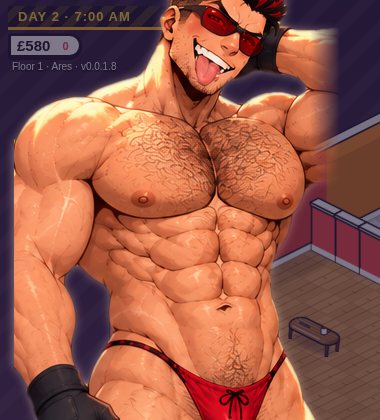
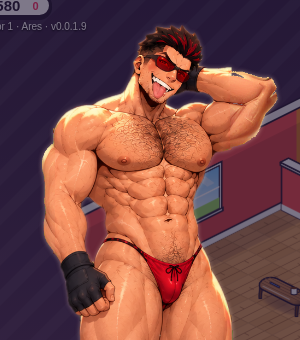
v0.0.1.9: Ares whole-body dialogue art (outpainted limbs), standing over current scene

diff --git a/game.js b/game.js
@@ -1,7 +1,7 @@
 'use strict';
 const DPR=Math.min(2,window.devicePixelRatio||1);let ctx=null;const PB=document.createElement('canvas'),PBC=PB.getContext('2d');let PX=1;
 // Fantasy Town v0.0.0.8 — small-town condo life sim (family-friendly)
-const VERSION='v0.0.1.8',SAVE='fantasytown_save_v10';
+const VERSION='v0.0.1.9',SAVE='fantasytown_save_v10';
 const cv=document.getElementById('c'),mainCtx=cv.getContext('2d'),menuEl=document.getElementById('menu');
 const Q=new URLSearchParams(location.search),$=id=>document.getElementById(id);
 const G=0,ROAD=1,WATER=2,CONC=5,PATH=14,DARKG=15,FL1=20,FL2=21,FL3=22;
@@ -42,7 +42,7 @@ const CHARS={
  'Mayor Lumen':{look:{body:'#c09a2a',hair:'#f4f4f4',style:'short'},
   talks:[[L('Welcome to Lumen Town, manager! Small, but full of heart.','happy'),L('Happy tenants make a happy town. Post an ad at your front desk!')],[L('Tenants love rooms with their favourite things.','smile'),L('Check what they like before you decorate!','happy')]]},
 };
-// ===== v0.0.1.8 ARES — first custom tenant (original writing; cheeky, warm, family-friendly) =====
+// ===== v0.0.1.9 ARES — first custom tenant (original writing; cheeky, warm, family-friendly) =====
 CHARS.Ares={look:{ares:1,body:'#d9a07a',hair:'#14101a'},pers:'Confident · Loud · Big-brother',likes:['neon','modern'],fav:'dumbbells',loves:['dumbbells','weightbench','gymball','poster_gym'],job:'club',night:1,hang:['gym','plaza','park'],
  wage:13.5,shiftH:6,nights:5,offer:[25,28],
  talks:[[L('Yo! You run this place? Name\'s Ares. Night-club security. Don\'t worry, I only LOOK scary.','smile'),L('Door\'s my job, boss. Nobody gets past me without a smile.','teasing')]],
@@ -351,9 +351,9 @@ function drawApps(t){ctx.setTransform(1,0,0,1,0,0);const W=cv.width,H=cv.height;
 // ---------- dialogue ----------
 const dlg={on:false,lines:[],i:0,ch:0,name:'',hidden:false};
 function startDialogue(name,lines){Object.assign(dlg,{on:true,lines,i:0,ch:0,name,hidden:false});$('dlg').style.display='block';$('dlgName').textContent=name.toUpperCase();showLine();for(const k in keys)keys[k]=0;}
-function showLine(){const l=dlg.lines[dlg.i];const pc=$('dlgPortrait'),g=pc.getContext('2d');g.clearRect(0,0,pc.width,pc.height);const AA=dlg.name=='Ares'&&typeof aresDialogueArt=='function'&&aresDialogueArt(),fc=$('dlgFace');if(AA){const dpr=window.devicePixelRatio||1;if(pc.width!=AA.width){pc.width=AA.width;pc.height=AA.height;}g.clearRect(0,0,pc.width,pc.height);g.drawImage(AA,0,0);pc.style.height=Math.min(AA.height/dpr,innerHeight*1.12)+'px';pc.style.filter='none';pc.style.left='0';pc.style.transform='none';
+function showLine(){const l=dlg.lines[dlg.i];const pc=$('dlgPortrait'),g=pc.getContext('2d');g.clearRect(0,0,pc.width,pc.height);const AA=dlg.name=='Ares'&&typeof aresDialogueArt=='function'&&aresDialogueArt(),fc=$('dlgFace');if(AA){const dpr=window.devicePixelRatio||1;if(pc.width!=AA.width){pc.width=AA.width;pc.height=AA.height;}g.clearRect(0,0,pc.width,pc.height);g.drawImage(AA,0,0);pc.style.height=Math.min(AA.height/dpr,innerHeight*.9)+'px';pc.style.filter='none';pc.style.left=Math.round(innerWidth*.03)+'px';pc.style.transform='none';pc.style.bottom=Math.round(innerHeight*.02)+'px';
  const F=aresFace(l.e);if(F){fc.width=F.naturalWidth;fc.height=F.naturalHeight;const fg=fc.getContext('2d');fg.clearRect(0,0,fc.width,fc.height);fg.drawImage(F,0,0);fc.style.width=Math.min(F.naturalWidth/dpr,84)+'px';fc.style.display='block';}else fc.style.display='none';}
- else{if(pc.width!=420){pc.width=420;pc.height=520;}pc.style.height='';pc.style.filter='';pc.style.left='';pc.style.transform='';fc.style.display='none';g.drawImage(portrait(dlg.name,l.e),0,0,pc.width,pc.height);}dlg.ch=0;$('dlgText').textContent='';$('dlgBox').style.visibility='visible';dlg.hidden=false;}
+ else{if(pc.width!=420){pc.width=420;pc.height=520;}pc.style.height='';pc.style.filter='';pc.style.left='';pc.style.transform='';pc.style.bottom='';fc.style.display='none';g.drawImage(portrait(dlg.name,l.e),0,0,pc.width,pc.height);}dlg.ch=0;$('dlgText').textContent='';$('dlgBox').style.visibility='visible';dlg.hidden=false;}
 function dlgNext(){const l=dlg.lines[dlg.i];if(dlg.ch<l.t.length){dlg.ch=l.t.length;$('dlgText').textContent=l.t;return;}dlg.i++;if(dlg.i>=dlg.lines.length)dlgClose();else showLine();}
 function dlgClose(){dlg.on=false;$('dlg').style.display='none';}
 $('dlgNext').onclick=e=>{e.stopPropagation();dlgNext();};$('dlgSkip').onclick=e=>{e.stopPropagation();dlgClose();};$('dlgHide').onclick=e=>{e.stopPropagation();dlg.hidden=true;$('dlgBox').style.visibility='hidden';};

diff --git a/ares.js b/ares.js
@@ -13,16 +13,12 @@ const aresReady=n=>{const i=ARES_IMG[n];return i&&i.complete&&i.naturalWidth>0;}
 // Dialogue art: the CG shown at native resolution in a clean frame, keeping its own painted background;
 // only the frame's alpha is feathered (sides) and faded (bottom, behind the text box) so no crop edge shows.
 let _adc=null;
-{const im=new Image();im.src='assets/ares/cg_cut.png';ARES_IMG.cg_cut=im;}
-// Big model over the live (dimmed) scene: the CG figure cut from its garden (alpha only), a soft warm rim glow,
-// shown 1:1 anchored to the bottom-left screen corner (his left-arm crop lies on the screen edge, the right elbow crop is feathered), and the legs fading out behind the text box.
-function aresDialogueArt(){if(_adc)return _adc;if(!aresReady('cg_cut'))return null;const b=ARES_IMG.cg_cut,P=14,W=b.naturalWidth+P*2,H=b.naturalHeight+P;
+{const im=new Image();im.src='assets/ares/cg_full.png';ARES_IMG.cg_full=im;}
+// Big model, whole from head to toe (assets/ares/cg_full.png: the sheet's CG with the limbs the panel cut off completed
+// offline), standing over the live, dimmed location. Soft warm rim glow only; no fades, no crop.
+function aresDialogueArt(){if(_adc)return _adc;if(!aresReady('cg_full'))return null;const b=ARES_IMG.cg_full,P=12,W=b.naturalWidth+P*2,H=b.naturalHeight+P*2;
  const c=document.createElement('canvas');c.width=W;c.height=H;const g=c.getContext('2d');
- g.save();g.shadowColor='rgba(255,214,190,.55)';g.shadowBlur=10;g.drawImage(b,P,P);g.restore();g.drawImage(b,P,P);
- g.globalCompositeOperation='destination-out';
- [[W-P,W-P-30]].forEach(([a0,a1])=>{const lg=g.createLinearGradient(a0,0,a1,0);lg.addColorStop(0,'rgba(0,0,0,1)');lg.addColorStop(1,'rgba(0,0,0,0)');g.fillStyle=lg;g.fillRect(Math.min(a0,a1)-(a0<a1?P:0),0,30+P,H);});
- const bg=g.createLinearGradient(0,H*.62,0,H*.97);bg.addColorStop(0,'rgba(0,0,0,0)');bg.addColorStop(1,'rgba(0,0,0,1)');g.fillStyle=bg;g.fillRect(0,H*.62,W,H*.38);
- return _adc=c;}
+ g.save();g.shadowColor='rgba(255,214,190,.5)';g.shadowBlur=9;g.drawImage(b,P,P);g.restore();g.drawImage(b,P,P);return _adc=c;}
 // small face badge = the sheet's close-up for the line's emotion (shown at <= native size, anchored to the text box)
 function aresFace(expr){expr={happy:'smile',laugh:'smile',smirk:'teasing',embarrassed:'blush',blushing:'blush',thinking:'serious'}[expr]||expr;if(!ARES_EXPR.includes(expr))expr='smile';const n='expr_'+(expr=='blush'?'blushing':expr);return aresReady(n)?ARES_IMG[n]:null;}
 // small uses (applicant card, tenant list): the CG's upper body at native pixels, 420:520 aspect

diff --git a/index.html b/index.html
@@ -2,7 +2,7 @@
 <html lang="en"><head><meta charset="utf-8">
 <meta name="viewport" content="width=device-width,initial-scale=1,maximum-scale=1,user-scalable=no,viewport-fit=cover">
 <meta name="mobile-web-app-capable" content="yes"><meta name="apple-mobile-web-app-capable" content="yes"><meta name="theme-color" content="#2a2238">
-<title>Fantasy Town v0.0.1.8</title>
+<title>Fantasy Town v0.0.1.9</title>
 <style>
 *{box-sizing:border-box}
 html,body{margin:0;height:100%;background:#2a2238;overflow:hidden;touch-action:none;font-family:"Trebuchet MS",Verdana,sans-serif;color:#2a2238;-webkit-user-select:none;user-select:none}

diff --git a/assets/ares/upscale_poses.py b/assets/ares/upscale_poses.py
@@ -1,0 +1,42 @@
+# Upscale the full-body pose slices offline with Real-ESRGAN x4plus_anime_6B (CPU), then downsample with Lanczos
+# to the dialogue height. RGB comes from the sheet panel (no recolor/filter); alpha = the slice's key, Lanczos-upscaled,
+# with edge pixels decontaminated against the panel background. Run with /tmp/ares7/rbg/bin/python (torch).
+import torch,torch.nn as nn,torch.nn.functional as F,numpy as np,json
+from PIL import Image
+class RDB(nn.Module):
+    def __init__(s,f=64,g=32):
+        super().__init__();s.conv1=nn.Conv2d(f,g,3,1,1);s.conv2=nn.Conv2d(f+g,g,3,1,1);s.conv3=nn.Conv2d(f+2*g,g,3,1,1);s.conv4=nn.Conv2d(f+3*g,g,3,1,1);s.conv5=nn.Conv2d(f+4*g,f,3,1,1);s.l=nn.LeakyReLU(.2,True)
+    def forward(s,x):
+        x1=s.l(s.conv1(x));x2=s.l(s.conv2(torch.cat((x,x1),1)));x3=s.l(s.conv3(torch.cat((x,x1,x2),1)));x4=s.l(s.conv4(torch.cat((x,x1,x2,x3),1)));return s.conv5(torch.cat((x,x1,x2,x3,x4),1))*.2+x
+class RRDB(nn.Module):
+    def __init__(s,f=64):super().__init__();s.rdb1=RDB(f);s.rdb2=RDB(f);s.rdb3=RDB(f)
+    def forward(s,x):return s.rdb3(s.rdb2(s.rdb1(x)))*.2+x
+class Net(nn.Module):
+    def __init__(s,nb=6,f=64):
+        super().__init__();s.conv_first=nn.Conv2d(3,f,3,1,1);s.body=nn.Sequential(*[RRDB(f) for _ in range(nb)]);s.conv_body=nn.Conv2d(f,f,3,1,1)
+        s.conv_up1=nn.Conv2d(f,f,3,1,1);s.conv_up2=nn.Conv2d(f,f,3,1,1);s.conv_hr=nn.Conv2d(f,f,3,1,1);s.conv_last=nn.Conv2d(f,3,3,1,1);s.l=nn.LeakyReLU(.2,True)
+    def forward(s,x):
+        fe=s.conv_first(x);fe=fe+s.conv_body(s.body(fe));fe=s.l(s.conv_up1(F.interpolate(fe,scale_factor=2,mode='nearest')));fe=s.l(s.conv_up2(F.interpolate(fe,scale_factor=2,mode='nearest')))
+        return s.conv_last(s.l(s.conv_hr(fe)))
+net=Net();sd=torch.load('/tmp/ares7/anime6B.pth',map_location='cpu');net.load_state_dict(sd.get('params_ema',sd));net.eval()
+SH=Image.open('sheet.png').convert('RGB');TH=640
+P=['talking','laugh','teasing','embarrassed','angry','thinking','surprised','serious'];PC=[(343,487),(500,635),(647,783),(795,926),(936,1063),(1076,1196),(1208,1365),(1377,1521)]
+# locate each keyed slice inside its key box to align alpha with the panel RGB
+for p,(x0,x1) in zip(P,PC):
+    box=(x0+4,514,x1-4,780);rgb=SH.crop(box);sl=Image.open(f'pose_{p}.png');sa=np.asarray(sl)
+    R=np.asarray(rgb);best=None
+    for dy in range(0,R.shape[0]-sa.shape[0]+1):
+        for dx in range(0,R.shape[1]-sa.shape[1]+1):
+            d=np.abs(R[dy:dy+sa.shape[0],dx:dx+sa.shape[1]].astype(int)-sa[...,:3].astype(int))[sa[...,3]==255].mean()
+            if best is None or d<best[0]:best=(d,dx,dy)
+            if d==0:break
+        if best[0]==0:break
+    _,dx,dy=best;al=np.zeros(R.shape[:2],np.uint8);al[dy:dy+sa.shape[0],dx:dx+sa.shape[1]]=sa[...,3]
+    with torch.no_grad():
+        t=torch.from_numpy(R.astype(np.float32)/255).permute(2,0,1)[None];o=net(t).clamp(0,1)[0].permute(1,2,0).numpy()
+    up=Image.fromarray((o*255+.5).astype(np.uint8));aup=Image.fromarray(al).resize(up.size,Image.LANCZOS)
+    k=TH/R.shape[0];W,H=round(R.shape[1]*k),TH
+    up=up.resize((W,H),Image.LANCZOS);aup=aup.resize((W,H),Image.LANCZOS)
+    A=np.asarray(up).astype(float);a=np.asarray(aup).astype(float)/255;a[a<.04]=0
+    bgc=np.median(R[al==0],axis=0);pm=(a>0)&(a<1);aa=a[pm][:,None];A[pm]=np.clip((A[pm]-(1-aa)*bgc)/np.maximum(aa,.2),0,255)
+    out=Image.fromarray(np.dstack([A,a*255]).astype(np.uint8));out=out.crop(out.getbbox());out.save(f'hd_{p}.png');print(p,out.size,'match',round(best[0],2))

diff --git a/assets/ares/finish_cg.py b/assets/ares/finish_cg.py
@@ -1,0 +1,39 @@
+# Put the untouched CG pixels back on top of the outpainted legs and key the flat green from the NEW area only.
+import numpy as np,sys,scipy.ndimage as nd
+from PIL import Image
+L=110;raw=np.asarray(Image.open(sys.argv[1]).convert('RGB')).astype(int);cg=Image.open('cg_cut.png').convert('RGBA')
+r,g,b=raw[...,0],raw[...,1],raw[...,2];green=(g>r+25)&(g>b+25)
+soft=np.clip(((g-np.maximum(r,b))-10)/40,0,1)  # 1 = green bg
+al=(1-soft);xx=np.arange(raw.shape[1])[None,:];yy=np.arange(raw.shape[0])[:,None]
+noise=(xx>=L+326-6)&(yy<560)&~((r>g*1.25+6)&(r>110));al=np.where(noise,0,al)  # SD left noise in the empty far-right margin
+soft=np.where(noise,1,soft);al[nd.binary_erosion(green,iterations=2)]=0
+# decontaminate green spill on edges
+pm=(al>0)&(al<1);bgc=np.array([40,170,70]);A=raw.astype(float);a=al[pm][:,None];A[pm]=np.clip((A[pm]-(1-a)*bgc)/np.maximum(a,.25),0,255)
+A[...,1]=np.minimum(A[...,1],np.maximum(A[...,0],A[...,2])*1.0+ (A[...,1]-np.maximum(A[...,0],A[...,2])).clip(max=0))  # no green cast in new pixels
+lab,n=nd.label(al>.3);sz=nd.sum(np.ones(al.shape),lab,range(1,n+1));keep=np.isin(lab,[i+1 for i,s in enumerate(sz) if s>2000]);al[~nd.binary_dilation(keep,iterations=2)]=0
+H0=cg.height
+# colour-match the generated legs to the CG's own shins (generated pixels only)
+cgA=np.zeros_like(A);cgal=np.zeros(al.shape);cgA[:H0,L:L+cg.width]=np.asarray(cg)[...,:3];cgal[:H0,L:L+cg.width]=np.asarray(cg)[...,3]/255
+ref=cgA[H0-60:H0][cgal[H0-60:H0]>.9];src=A[H0:H0+120][al[H0:H0+120]>.9]
+if len(ref) and len(src):
+    gm=(np.arange(A.shape[0])>=H0-30)[:,None]&(al>0)
+    A[gm]=np.clip((A[gm]-src.mean(0))/src.std(0)*ref.std(0)+ref.mean(0),0,255)
+for xa,xb,ra,rb in [(L+cg.width-16,A.shape[1],L+cg.width-50,L+cg.width),(0,L+16,L,L+50)]:
+    ref=cgA[:H0,ra:rb][cgal[:H0,ra:rb]>.9];sm=np.zeros(al.shape,bool);sm[:H0,xa:xb]=True;sm&=(al>.9)&(A[...,0]>A[...,1]*1.2)
+    if len(ref)>50 and sm.sum()>50:
+        src=A[sm];gm=np.zeros(al.shape,bool);gm[:H0,xa:xb]=True;gm&=al>0
+        A[gm]=np.clip((A[gm]-src.mean(0))/(src.std(0)+1e-3)*ref.std(0)+ref.mean(0),0,255)
+out=Image.fromarray(np.dstack([A,al*255]).astype(np.uint8));
+blank=Image.new('RGBA',out.size,(0,0,0,0));top=blank.copy();top.paste(cg,(L,0))
+# crossfades at the seams (bottom 24px, left/right cut edges 16px): original CG weight ramps to the completed limb
+cw=cg.width;Hh,Ww=A.shape[:2];ga=np.asarray(out)[...,3]>0;wt=np.ones((Hh,Ww))
+for k in range(24): wt[H0-24+k]*=1-(k+1)/25
+for k in range(16): wt[:H0,L+cw-16+k]*=1-(k+1)/17; wt[:H0,L+k]*= (k+1)/17
+wt=np.where(ga,wt,1)
+ta=np.asarray(top).copy().astype(float);ta[...,3]*=wt
+oa=np.asarray(out).copy();oa[(wt>=1)&(np.asarray(top)[...,3]>0)]=0;out=Image.fromarray(oa);top=Image.fromarray(ta.astype(np.uint8))
+out.alpha_composite(top);o2=np.asarray(out).copy().astype(int)
+bad=np.zeros(o2.shape[:2],bool);bad[580:]=(o2[580:,:,0]<o2[580:,:,1]*1.25+6)&(o2[580:,:,3]>0);o2[...,3][bad]=0
+lab2,n2=nd.label(o2[...,3]>40);sz2=nd.sum(np.ones(bad.shape),lab2,range(1,n2+1));o2[...,3][~nd.binary_dilation(lab2==int(np.argmax(sz2))+1,iterations=1)]=0
+bandm=np.zeros(bad.shape,bool);bandm[540:860]=True;op=nd.binary_opening(o2[...,3]>0,structure=np.ones((7,7)));o2[...,3][bandm&~op]=0
+out=Image.fromarray(o2.astype(np.uint8));out=out.crop(out.getbbox());out.save('cg_full.png');print(out.size)

diff --git a/assets/ares/extend_cg.py b/assets/ares/extend_cg.py
@@ -1,0 +1,28 @@
+# Complete Ares's lower legs + feet below the CG crop (outpainting). Guide = lower legs from the sheet's own
+# front turnaround, scaled/aligned under each knee; SD1.5-inpainting (CPU) re-renders only the NEW area + a thin
+# seam band. The original CG pixels are composited back on top unchanged. Output: cg_full.png (RGBA).
+import numpy as np,torch,sys
+from PIL import Image,ImageFilter
+from diffusers import StableDiffusionInpaintPipeline
+cg=Image.open('cg_cut.png').convert('RGBA');tf=Image.open('turn_front.png').convert('RGBA')
+L,R,EXT=110,110,400;W,H=cg.width+L+R,cg.height+EXT;GREEN=(40,170,70)
+base=Image.new('RGBA',(W,H),GREEN+(255,))
+S=3.1
+def leg(x0,x1,cx):  # crop one turnaround leg from the shin down, scale, centre under the CG leg
+    g=tf.crop((x0,296,x1,tf.height));g=g.resize((round(g.width*S),round(g.height*S)),Image.LANCZOS)
+    base.alpha_composite(g,(round(L+cx-g.width/2),cg.height-24))
+leg(0,80,64.5-6);leg(82,162,256+8)
+base.alpha_composite(cg,(L,0))
+seed=int(sys.argv[1]) if len(sys.argv)>1 else 7
+# work region: bottom part, at a resolution SD likes
+y0=cg.height-330;reg=base.crop((0,y0,W,H)).convert('RGB');sc=512/W;rw,rh=512,int(round(reg.height*sc/8)*8)
+mask=Image.new('L',(W,H),0);mask.paste(255,(0,cg.height-10,W,H));
+ca=np.asarray(cg)[...,3];side=Image.new('L',(W,H),0);sa=np.zeros((H,W),np.uint8);sa[:cg.height,L:L+cg.width]=(ca<10)*255;sa[:cg.height,:L]=255;sa[:cg.height,L+cg.width:]=255
+mask=Image.fromarray(np.maximum(np.asarray(mask),sa));mreg=mask.crop((0,y0,W,H)).resize((rw,rh)).filter(ImageFilter.GaussianBlur(2))
+pipe=StableDiffusionInpaintPipeline.from_pretrained('/tmp/ares7/sdinp',torch_dtype=torch.float32,variant='fp16',safety_checker=None);pipe.set_progress_bar_config(disable=True)
+torch.set_num_threads(8)
+out=pipe(prompt='anime illustration, muscular man standing, bare muscular calves and bare feet, cel shading, clean line art, plain flat green background, full body',
+ negative_prompt='shoes, socks, pants, clothing, extra legs, deformed, blurry, photo, realistic, text',image=reg.resize((rw,rh),Image.LANCZOS),mask_image=mreg,
+ height=rh,width=rw,num_inference_steps=30,guidance_scale=7,strength=.62,generator=torch.Generator().manual_seed(seed)).images[0]
+gen=out.resize(reg.size,Image.LANCZOS);full=base.copy().convert('RGB');full.paste(gen,(0,y0));full=full.convert('RGBA')
+full.save(f'/tmp/ares7/ext_raw_{seed}.png');print('ok',full.size)

diff --git a/test.py b/test.py
@@ -147,5 +147,16 @@ async def main():
     print('HUD',await ar.evaluate("document.getElementById('gold').textContent+' | '+document.getElementById('res').innerText"))
     print('ares imgs',await ar.evaluate("Object.values(ARES_IMG).filter(i=>!(i.complete&&i.naturalWidth)).length"),'missing of',await ar.evaluate("ARES_SLICES.length"))
     await ar.evaluate("FT.setTime(18);FT.goArea('town',[23,22]);FT.TN.Ares.inRoom=false;FT.TN.Ares.px=24.5;FT.TN.Ares.py=21.5;aresEmote('heart',60)");await ar.wait_for_timeout(500);await ar.screenshot(path='screenshot-ares-ingame.png');print('portrait css',await ar.evaluate("(()=>{const p=document.getElementById('dlgPortrait');return p.width+'x'+p.height+' css '+p.style.height})()"))
+    sm=await b.new_page(viewport={'width':844,'height':390});hook(sm)
+    await sm.goto(U);await sm.evaluate("localStorage.clear()");await sm.goto(U+'?t=8');await sm.wait_for_timeout(500)
+    await sm.evaluate("FT.condoAct('ad'),sleep(),FT.condoAct('pick',0)");await sm.wait_for_timeout(200)
+    await sm.evaluate("document.getElementById('dlg').style.display=='block'&&document.getElementById('dlgSkip').click()")
+    await sm.evaluate("FT.S.fr.Ares={p:12,talk:0,hang:0,scene:0};FT.enterRoom('f1')");await sm.wait_for_timeout(3500);await sm.screenshot(path='screenshot-ares-dialogue-844.png')
+    await sm.evaluate("document.getElementById('dlgSkip').click()");await sm.evaluate("FT.goArea('town',[24,23]);FT.setTime(22)");await sm.wait_for_timeout(300)
+    await sm.evaluate("FT.TN.Ares.px=24.5;FT.TN.Ares.py=22.4;FT.setPos(24,23)");await sm.wait_for_timeout(400)
+    tb=sm.get_by_text('TALK · ARES')
+    if await tb.count(): await tb.first.click();await sm.wait_for_timeout(3500);await sm.screenshot(path='screenshot-ares-dialogue-town-844.png')
+    else: print('no talk 844')
+    print('portrait 844',await sm.evaluate("(()=>{const p=document.getElementById('dlgPortrait').getBoundingClientRect(),q=document.getElementById('dlgBox').getBoundingClientRect();return [Math.round(p.left),Math.round(p.right),Math.round(p.top),Math.round(p.bottom),'box',Math.round(q.left)]})()"))
     print('ERRORS',errs);await b.close()
 asyncio.run(main())

diff --git a/assets/ares/extend_arms.py b/assets/ares/extend_arms.py
@@ -1,0 +1,13 @@
+# Pass 2: the sheet panel also cut his right upper arm (left edge) and raised elbow (right edge).
+# Inpaint only the side margins beside those cuts on the pass-1 canvas; original pixels are restored by finish_cg.py.
+import numpy as np,torch,sys
+from PIL import Image,ImageFilter
+from diffusers import StableDiffusionInpaintPipeline
+L,R=110,110;raw=Image.open(sys.argv[1]).convert('RGB');cg=Image.open('cg_cut.png');W,H=raw.size;cw=cg.width
+y1=520;reg=raw.crop((0,0,W,y1));rw=512;rh=int(round(y1*rw/W/8)*8)
+m=np.zeros((y1,W),np.uint8);m[:,:L+3]=255;m[:,L+cw-3:]=255;mreg=Image.fromarray(m).resize((rw,rh)).filter(ImageFilter.GaussianBlur(2))
+pipe=StableDiffusionInpaintPipeline.from_pretrained('/tmp/ares7/sdinp',torch_dtype=torch.float32,variant='fp16',safety_checker=None);pipe.set_progress_bar_config(disable=True);torch.set_num_threads(8)
+o=pipe(prompt='anime illustration, muscular bodybuilder arms, bulging shoulder and biceps, elbow, cel shading, clean line art, plain flat green background',
+ negative_prompt='extra arms, extra hands, extra fingers, deformed, blurry, photo, realistic, text, clothing',image=reg.resize((rw,rh),Image.LANCZOS),mask_image=mreg,height=rh,width=rw,
+ num_inference_steps=30,guidance_scale=7,strength=1.0,generator=torch.Generator().manual_seed(int(sys.argv[2]) if len(sys.argv)>2 else 3)).images[0]
+o=o.resize((W,y1),Image.LANCZOS);out=raw.copy();mk=Image.fromarray(m);out.paste(o,(0,0),mk);out.save(sys.argv[1].replace('.png','_arms.png'));print('ok')

diff --git a/README.md b/README.md
@@ -39,3 +39,7 @@ Save: localStorage `fantasytown_save_v8` (older saves reset with +150g).
 - Ares dialogue: the CG is shown at native resolution (never upscaled, sized for devicePixelRatio), keeps its painted background, and sits in a red frame with an 8px side feather and a bottom fade behind the text box. The expression close-up is a badge anchored to the text box.
 - In-world: emote icons are cut from the sheet and drawn at native size beside his head, following him. Edge alpha is decontaminated against the panel colour, and there is a soft radial ground shadow.
 - Dialogue art: the CG figure is cut from its garden (alpha only, via `assets/ares/cut_cg.py` + `post_cg.py`) and stands over the live, dimmed location (room or town). It is shown 1:1, never upscaled, anchored to the bottom-left so his left-arm crop sits on the screen edge and his hair top runs off-screen. It has a soft warm rim glow, and his legs fade out behind the text box.
+
+## v0.0.1.9
+- Ares dialogue art is now whole, head to toe (`assets/ares/cg_full.png`). The parts the sheet panel cut off were completed offline with SD1.5-inpainting on CPU: lower legs and feet, guided by the sheet's own front turnaround legs (`extend_cg.py`), then his right upper arm and raised elbow/forearm (`extend_arms.py`). `finish_cg.py` puts the untouched CG pixels back on top, colour-matches the new parts to the CG and crossfades only at the seams (24px at the shins, 16px at the arm cuts).
+- He stands full-body on the left at up to 90% of the screen height (only ever downscaled), over the live dimmed room or town, with the text box beside him.
